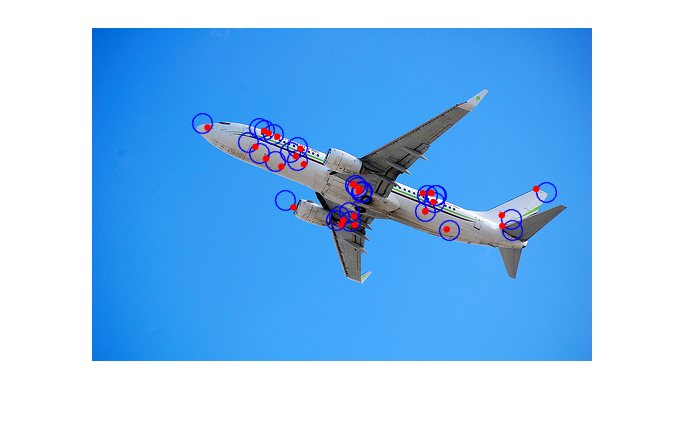
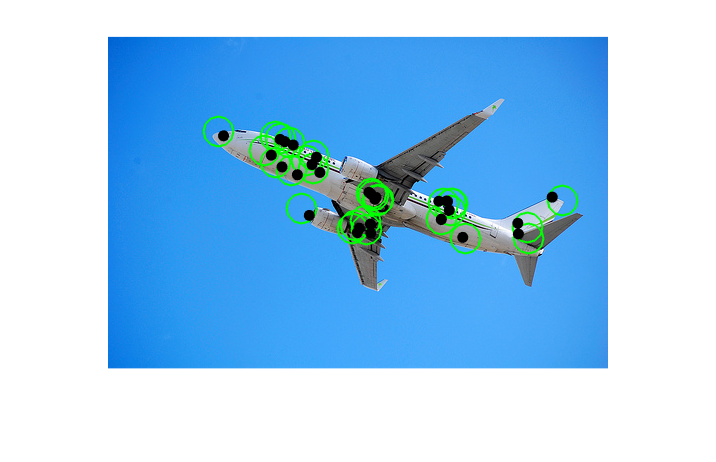
assign3: fixed Q3.3.3 plotting colours & result and Q3.1 choice of extrinsic matrix

Changed region(s): [[0.1224, 0.0613, 0.8878, 0.8585]]

diff --git a/assgn3/ec/projectCAD.m b/assgn3/ec/projectCAD.m
@@ -13,8 +13,8 @@ x_est = x_est(1:2, :) ./ x_est(end);
 
 %% 4. Plot x and x_est
 figure; imshow(image); hold on; 
-plot(x(1,:), x(2,:), 'bo', 'LineWidth', 1, 'MarkerSize', 15);
-plot(x_est(1, :), x_est(2, :), 'r.', 'LineWidth', 2, 'MarkerSize', 15);
+plot(x(1,:), x(2,:), 'go', 'LineWidth', 1, 'MarkerSize', 15);
+plot(x_est(1, :), x_est(2, :), 'k.', 'LineWidth', 2, 'MarkerSize', 15);
 
 %% 5. Rotate cad by R
 cad_r = cad;
@@ -28,4 +28,4 @@ cad_p = (P*cad_p')';
 cad_p = cad_p(:, 1:2) ./ cad_p(end);
 figure; 
 ax = axes;
-imshow(image); hold on; patch(ax, 'Faces', cad_r.faces, 'Vertices', cad_p, 'FaceColor', 'blue', 'FaceAlpha', .3, 'EdgeColor', 'none'); hold on;
+imshow(image); hold on; patch(ax, 'Faces', cad_r.faces, 'Vertices', cad_p, 'FaceColor', 'red', 'FaceAlpha', .3, 'EdgeColor', 'none'); hold on;

diff --git a/assgn3/matlab/testTempleCoords.m b/assgn3/matlab/testTempleCoords.m
@@ -30,7 +30,7 @@ E_ = estimateEssentialMatrix(coords.pts1, coords.pts2,...
 disp('E'); disp(E);
 disp('E ./ E_'); disp(E ./ E_);
 %%% DEBUG
-E = E_;
+% E = E_;
 
 %% 5. Compute camera projection matrices P1, and P2 by camera2
 extrinsic1 = [eye(3), zeros(3, 1)];
